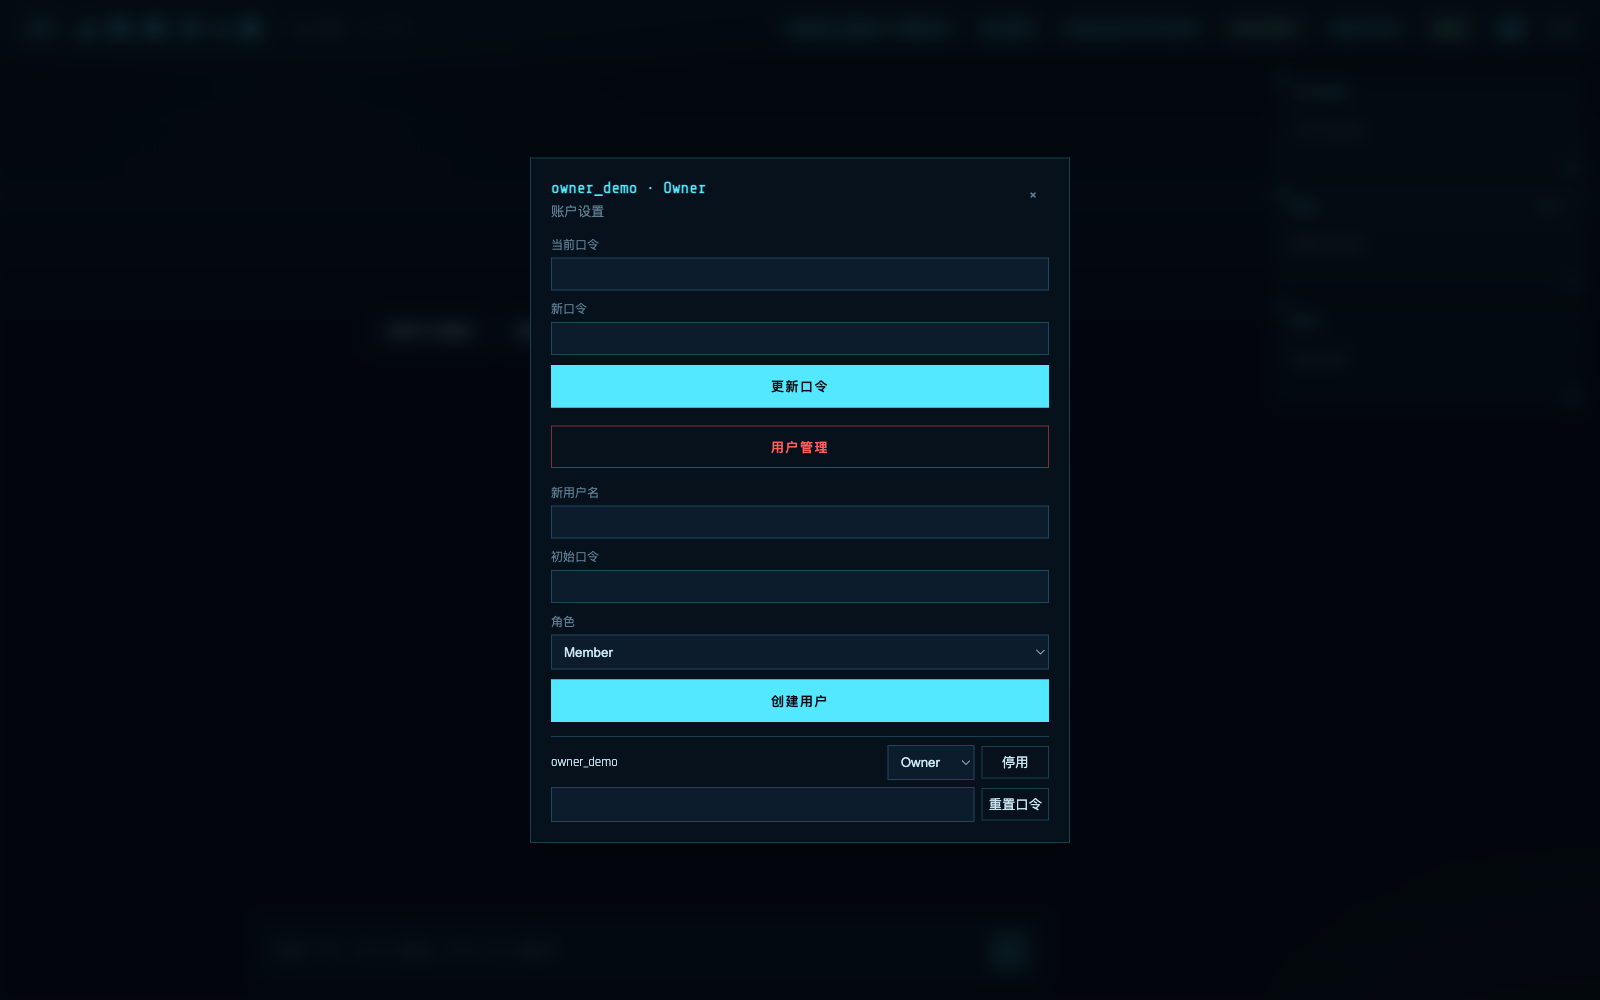
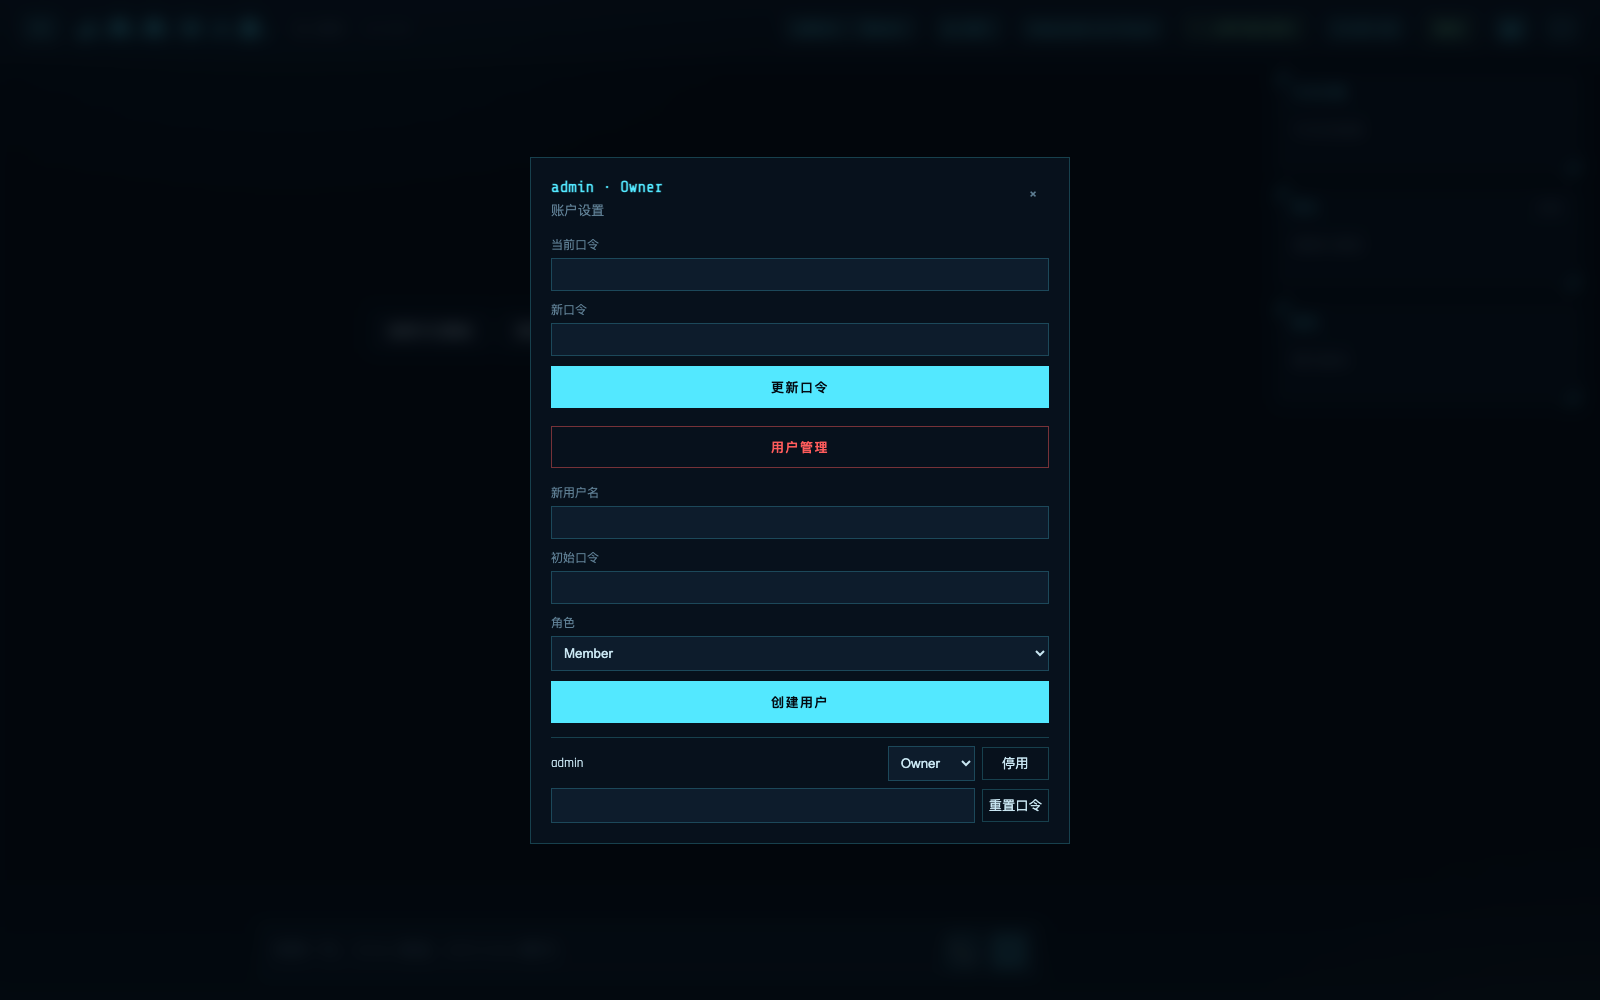
docs(readme): 产品介绍与语音上线焕新，三张生产实况截图
- 新增「产品介绍」：电梯陈述 + 7 项功能总览（≤400 字）
- 上线状态补网页语音通话已上线、微信语音开发中；入口表新增语音行
- 快速开始§2 增「语音通话怎么用」（📞→授权麦克风→说话，拒授权降级打字通话）
- 三张网页截图按 2026-08-13 生产实况重截（1600×1000）：空状态主界面、
  API 设置中心（密钥口令全空）、账户设置+用户管理；定位替换为演示内容
- 图注与 alt 按规格文件对齐；无 key/口令/二维码/真实对话入图

diff --git a/README.md b/README.md
@@ -11,19 +11,31 @@
 [![macOS](https://img.shields.io/badge/macOS-Desktop-000000?logo=apple&logoColor=white)](https://www.apple.com/macos/)
 ![Non-Commercial](https://img.shields.io/badge/License-Non--Commercial-E5484D)
 
-把聊天、持久记忆、日程待办和可追溯的实时搜索放进同一个 Agent：既能在网页和终端里使用，也能常驻为 macOS 悬浮球，还可以桥接个人微信。
+把聊天、语音通话、持久记忆、日程待办和可追溯的实时搜索放进同一个 Agent：既能在网页和终端里使用，也能常驻为 macOS 悬浮球，还可以桥接个人微信。
 
 **私有部署 / 演示入口：[`https://jws.gkgeek-set.cn`](https://jws.gkgeek-set.cn)**
 
 **[快速开始](#快速开始)**
 
-这是项目维护者的私有部署或演示入口，不是公共 SaaS，也不承诺持续在线；桌面端可在设置中改为你自己的服务器地址。截至 **2026-08-13**，多用户隔离、Owner 用户管理、每用户 Provider / API 设置、`jarvis-web` 与 SearXNG 已部署并通过最小线上验收；SearXNG 仅监听服务器 loopback `127.0.0.1:18888`，不可从公网直接访问，搜索失败时可回退 DDGS。这里的状态说明不代表维护者已经替访问者执行过实时娱乐搜索或验证过任何具体结果。
+这是项目维护者的私有部署或演示入口，不是公共 SaaS，也不承诺持续在线；桌面端可在设置中改为你自己的服务器地址。截至 **2026-08-13**，多用户隔离、Owner 用户管理、每用户 Provider / API 设置、网页语音通话（📞）、`jarvis-web` 与 SearXNG 已部署并通过最小线上验收；微信语音消息支持仍在开发中。SearXNG 仅监听服务器 loopback `127.0.0.1:18888`，不可从公网直接访问，搜索失败时可回退 DDGS。这里的状态说明不代表维护者已经替访问者执行过实时娱乐搜索或验证过任何具体结果。
 
 > **非商用项目：仅供学习、研究与个人非商业用途。禁止未经授权的商业部署、商业集成、付费分发或收费服务。**
 
 > 本声明只描述 JWS-Agent 自身的使用范围。可选部署中的第三方 SearXNG 采用独立的 AGPL-3.0；二者不能互相替代。详见 [`deploy/searxng/README.md`](deploy/searxng/README.md)。
 
 </div>
+
+## 产品介绍
+
+贾维斯（JWS-Agent）是一个可私有部署的中文 AI 管家：记得住你说过的话，管得了日程待办，查得到带来源的实时信息；网页、桌面、终端、微信，随时叫得到。
+
+- **网页对话**：流式聊天，配今日日程 / 待办 / 备忘任务台。
+- **语音通话**：网页端点 📞 直接开口说话，贾维斯用语音回答。
+- **微信桥**：扫码接入个人微信即可对话；语音消息开发中。
+- **多用户与租户隔离**：Owner 邀请制开号，各账号对话、记忆、日程完全隔离。
+- **每用户 API 设置**：各自选择模型 Provider 与 Key，密钥加密存储、永不回显。
+- **桌面端**：macOS 常驻悬浮球，⌥Space 一键唤出快捷聊天。
+- **免费搜索链**：SearXNG → DDGS 免费降级，结果带时间与来源；Tavily 可选。
 
 ![JWS-Agent 网页端任务台与对话界面](docs/assets/readme/web-dashboard.png)
 
@@ -33,12 +45,12 @@
     <td align="center"><strong>Owner 用户管理与角色控制</strong></td>
   </tr>
   <tr>
-    <td><img src="docs/assets/readme/web-provider-settings.png" alt="JWS-Agent 网页端 Provider 与 API 设置中心" width="100%"></td>
-    <td><img src="docs/assets/readme/web-account-settings.png" alt="JWS-Agent 网页端 Owner 用户管理界面" width="100%"></td>
+    <td><img src="docs/assets/readme/web-provider-settings.png" alt="JWS-Agent 每用户 Provider 与 API 设置" width="100%"></td>
+    <td><img src="docs/assets/readme/web-account-settings.png" alt="JWS-Agent Owner 用户管理" width="100%"></td>
   </tr>
 </table>
 
-以上网页截图来自私有演示部署的真实界面；账户名、定位和其他个人信息已替换为演示内容，API Key、口令、二维码与真实对话均未进入图片。
+以上网页截图为 2026-08-13 私有演示部署的真实界面：主界面采用新对话空状态并收起历史列表，定位等个人信息已替换为演示内容，API Key、口令、二维码与真实对话均未进入图片。
 
 <table>
   <tr>
@@ -70,6 +82,7 @@
 | --- | --- | --- | --- | --- |
 | 中文自然语言对话与 21 项工具 | ✅ | ✅ | ✅ | ✅（文本消息） |
 | 流式展示 | ✅ SSE 逐字输出并展示工具调用 | ✅ SSE 逐字输出并展示工具调用 | — 单次完整返回 | — 消息式回复 |
+| 语音通话 | ✅ 📞 实时语音问答，可降级打字通话 | — | — | 🚧 语音消息开发中 |
 | 记忆线程 | 每个会话独立 `thread_id` | 固定 `desktop` 线程 | 默认 `main`，可用 `--thread` 指定 | 每个联系人独立 `wx-<联系人>` 线程 |
 | 日程、待办、备忘 | 对话操作 + 任务台展示 | 对话操作 + 日程 / 待办任务台展示 | 对话操作 | 对话操作 |
 | 实时搜索 | ✅ 免费默认可用 | ✅ 免费默认可用 | ✅ 免费默认可用 | ✅ 免费默认可用 |
@@ -215,6 +228,8 @@ cp .env.example .env
 ```
 
 默认监听 `http://127.0.0.1:7789`。首位 Owner 在首次启动时由 `.env` 中的 `JARVIS_ADMIN_USERNAME`/`JARVIS_ADMIN_PASSWORD` 自动创建；用它登录后，在顶栏「账户设置」的「用户管理」里可邀请 Member（没有公开注册入口），Member 用被分配的用户名口令登录即可，各自的数据完全隔离。登录后可创建和删除会话、查看历史、停止生成、复制回复，并在任务台查看日程、待办和备忘；后端每轮对话后继续使用同一条线程记忆。
+
+**语音通话怎么用**：点输入框旁的 **📞** 进入通话，浏览器会申请麦克风授权；同意后直接开口说话，说话停顿自动断句，贾维斯边生成边用语音回答并同步文字字幕。拒绝授权或浏览器不支持语音识别时，自动降级为「打字通话」——输入文字，贾维斯照样用语音回答；关闭通话面板后，文字聊天完全不受影响。微信语音消息支持仍在开发中。
 
 ### 私有部署的运行时 secret
 
